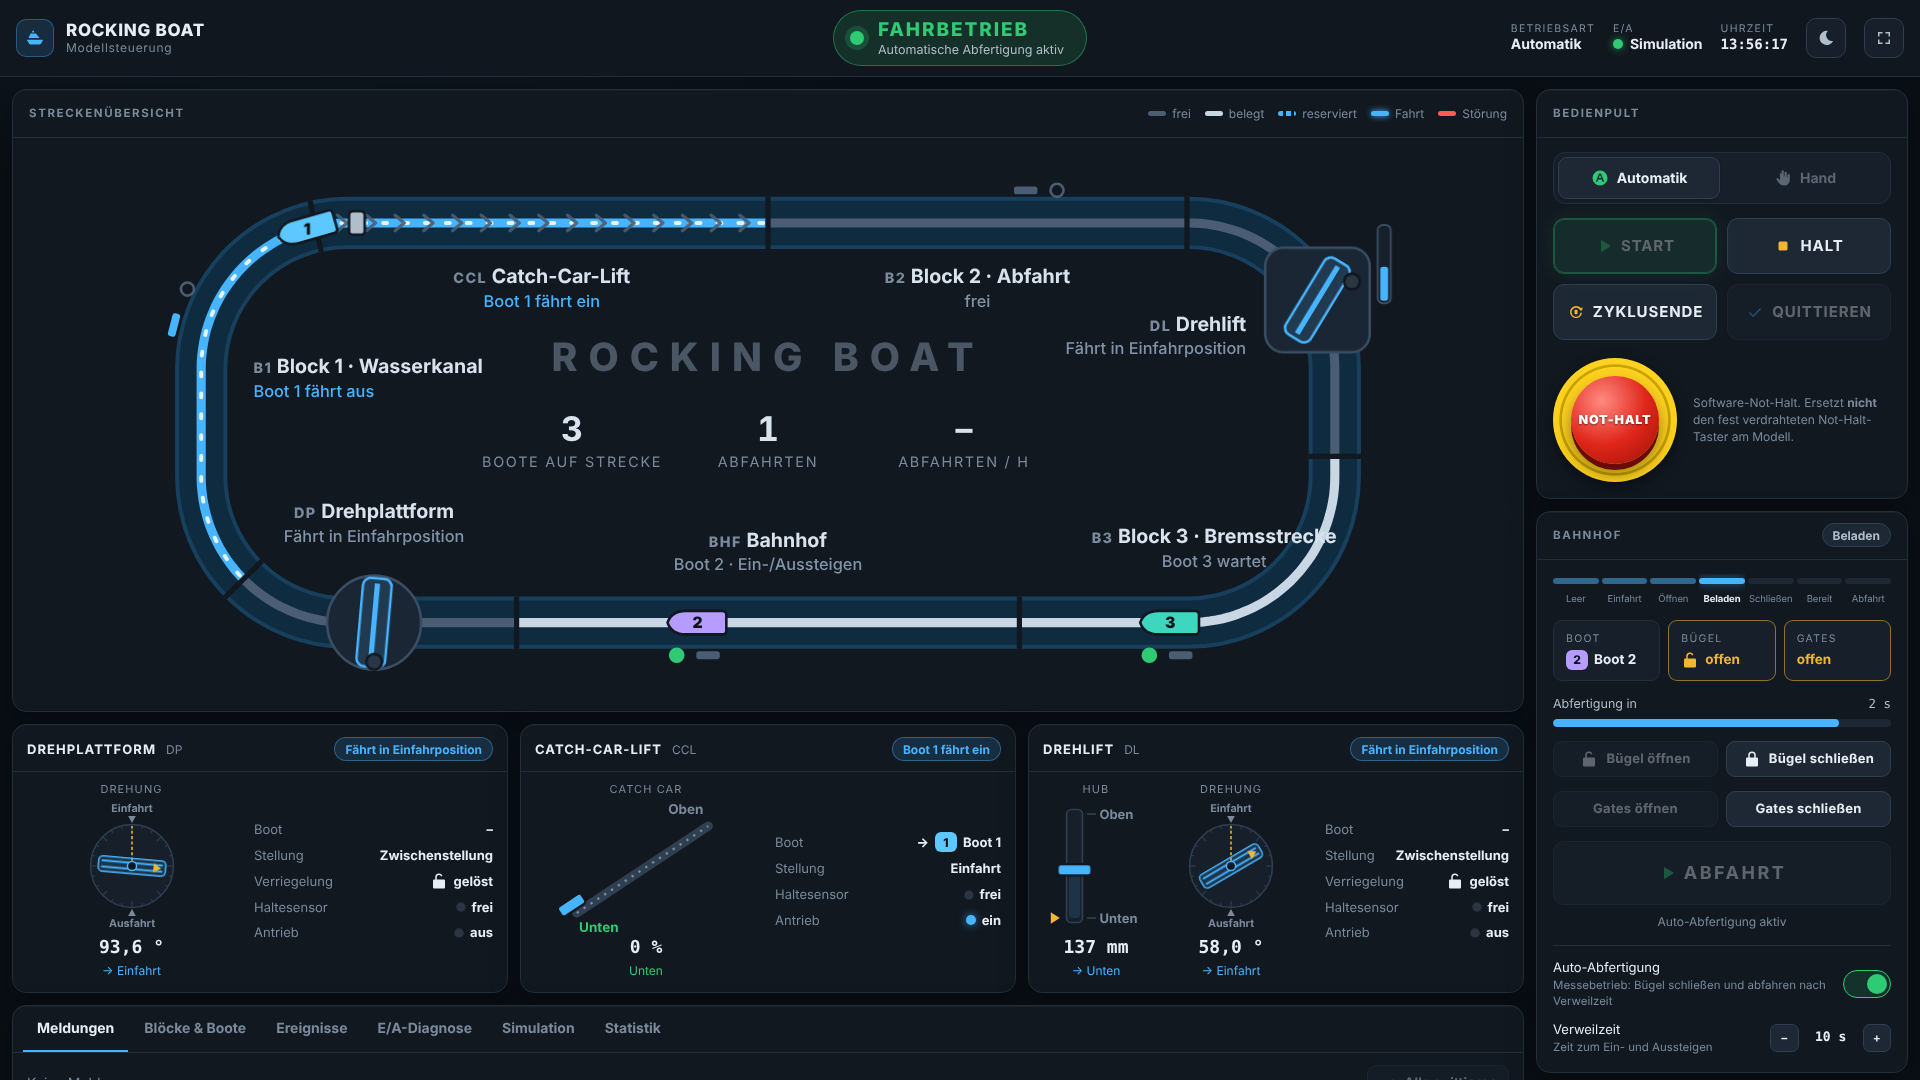
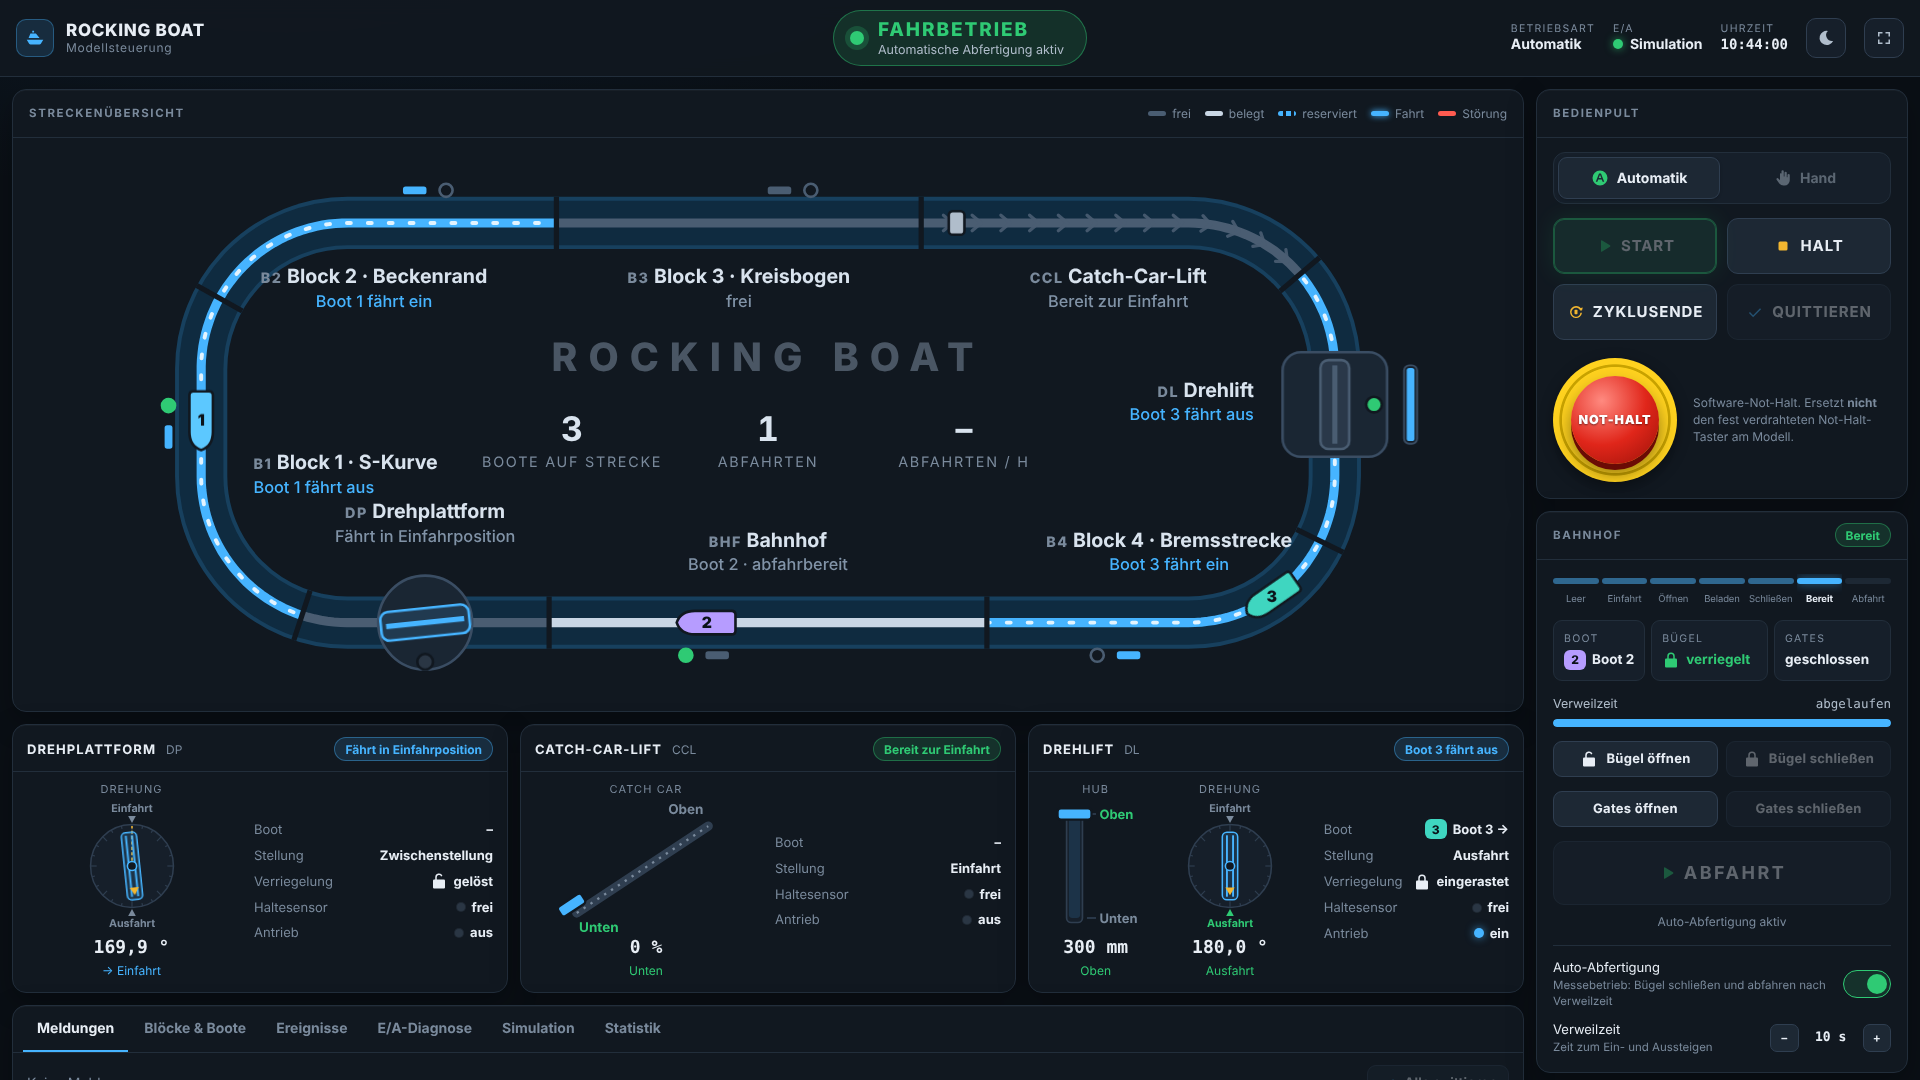
Streckenlayout aus dem Testvideo rekonstruieren
Das Testvideo (IMG_0518.MOV) zeigt eine Unterwasserschiene mit S-Kurve,
einen Bogen an der Beckenwand, einen aufgeständerten Kreisbogen und die
Drehplattform. Das Standardlayout übernimmt diese Abschnitte mit den im
Video gemessenen Fahrzeiten (S-Kurve 13 s, Beckenrand 11 s).

- Neue Abschnittsfolge: Bahnhof → Drehplattform → S-Kurve → Beckenrand →
  Kreisbogen → Catch-Car-Lift → Drehlift → Bremsstrecke
- docs/strecke-aus-video.md mit schematischer Draufsicht, Herkunft jedes
  Abschnitts (gesehen/angenommen) und offenen Fragen
- Signalliste neu erzeugt, Tests an die Abschnittsfolge angepasst
- Bahnhofspult: Kacheln schneiden „verriegelt“/„geschlossen“ nicht mehr ab

Claude-Session: https://claude.ai/code/session_014UVtXZWSkj7NbkCjKzpBEP

diff --git a/test/controller.test.js b/test/controller.test.js
@@ -14,16 +14,16 @@ const safeOutputs = (outputs) =>
 describe('Konfiguration', () => {
   test('Standardlayout ist gültig', () => {
     const config = normalizeConfig(rawConfig());
-    assert.equal(config.sections.length, 7);
+    assert.equal(config.sections.length, 8);
     assert.deepEqual(
       config.sections.map((s) => s.type),
-      ['station', 'turntable', 'block', 'catchCarLift', 'block', 'rotatingLift', 'block'],
+      ['station', 'turntable', 'block', 'block', 'block', 'catchCarLift', 'rotatingLift', 'block'],
     );
   });
 
   test('zu viele Boote werden abgelehnt', () => {
     const raw = rawConfig();
-    raw.boats = 7;
+    raw.boats = raw.sections.length;
     raw.simulation.initialBoats = raw.sections.map((s) => s.id);
     assert.throws(() => normalizeConfig(raw), (err) => err instanceof ConfigError && /Zu viele Boote/.test(err.message));
   });
@@ -44,8 +44,9 @@ describe('Automatikbetrieb', () => {
     rig.run(15 * 60, rig.assertNoDoubleOccupancy);
     assert.deepEqual(rig.alarmCodes(), []);
     assert.deepEqual(rig.sim.violations, []);
-    assert.ok(rig.ctrl.stats.dispatches >= 30, `nur ${rig.ctrl.stats.dispatches} Abfahrten`);
-    for (const b of rig.ctrl.boats.values()) assert.ok(b.rides >= 10, `${b.name} hat nur ${b.rides} Fahrten`);
+    // Mindestwerte mit Reserve unter dem Durchsatz des Standardlayouts (ca. 32 Abfahrten in 15 min)
+    assert.ok(rig.ctrl.stats.dispatches >= 25, `nur ${rig.ctrl.stats.dispatches} Abfahrten`);
+    for (const b of rig.ctrl.boats.values()) assert.ok(b.rides >= 8, `${b.name} hat nur ${b.rides} Fahrten`);
   });
 
   test('Abfahrt ohne Auto-Abfertigung nur mit geschlossenen Bügeln', () => {
@@ -184,8 +185,8 @@ describe('Handbetrieb', () => {
     const rig = createRig();
     assert.equal(rig.cmd('mode', { mode: 'manual' }).ok, true);
 
-    // Block 3 → Bahnhof: Bahnhof ist belegt
-    const blocked = rig.cmd('manual.advance', { section: 'block3' });
+    // Block 4 → Bahnhof: Bahnhof ist belegt
+    const blocked = rig.cmd('manual.advance', { section: 'block4' });
     assert.equal(blocked.ok, false);
     assert.match(blocked.message, /belegt/);
 
@@ -242,7 +243,7 @@ describe('Handbetrieb', () => {
   test('Fahrzeugverfolgung: Boot austragen und nach Neueinlesen wiederfinden', () => {
     const rig = createRig();
     rig.cmd('mode', { mode: 'manual' });
-    assert.equal(rig.cmd('tracking.remove', { section: 'block2' }).ok, false, 'Sensor meldet Boot – Austragen muss scheitern');
+    assert.equal(rig.cmd('tracking.remove', { section: 'block3' }).message, 'Sensor meldet ein Boot – Austragen nicht möglich');
     assert.equal(rig.cmd('tracking.rescan').ok, true);
     rig.tick();
     assert.equal(rig.ctrl.sections.filter((s) => s.boat).length, 3);

diff --git a/public/css/hmi.css b/public/css/hmi.css
@@ -498,8 +498,8 @@ body.mode-manual .manual-tools { display: flex; }
 .phases li.current { color: var(--text); font-weight: 750; }
 .phases li.current::before { background: var(--accent); box-shadow: 0 0 10px color-mix(in srgb, var(--accent) 50%, transparent); }
 
-.tiles { display: grid; grid-template-columns: repeat(3, minmax(0, 1fr)); gap: 8px; }
-.tile { display: flex; flex-direction: column; gap: 4px; min-width: 0; padding: 10px 12px; border-radius: var(--radius-sm); background: var(--panel-2); border: 1px solid var(--line); }
+.tiles { display: grid; grid-template-columns: auto minmax(0, 1fr) minmax(0, 1fr); gap: 6px; }
+.tile { display: flex; flex-direction: column; gap: 4px; min-width: 0; padding: 10px; border-radius: var(--radius-sm); background: var(--panel-2); border: 1px solid var(--line); }
 .tile-k { font-size: 10.5px; color: var(--muted); letter-spacing: 0.12em; text-transform: uppercase; }
 .tile-v { display: flex; align-items: center; gap: 6px; font-weight: 750; font-size: 13.5px; white-space: nowrap; overflow: hidden; text-overflow: ellipsis; }
 .tile[data-tone="warn"] { border-color: color-mix(in srgb, var(--warn) 55%, transparent); }

diff --git a/test/server.test.js b/test/server.test.js
@@ -29,7 +29,7 @@ describe('HTTP-Schnittstelle', () => {
     assert.equal(html.status, 200);
     assert.match(await html.text(), /<title>/);
     const cfg = await (await fetch(`${base}/api/config`)).json();
-    assert.equal(cfg.config.sections.length, 7);
+    assert.equal(cfg.config.sections.length, config.sections.length);
     assert.equal(cfg.driver, 'simulation');
     assert.ok(cfg.io.inputs.some((s) => s.key === 'drehplattform.lock.engaged'));
     const state = await (await fetch(`${base}/api/state`)).json();

diff --git a/docs/e-a-protokoll.md b/docs/e-a-protokoll.md
@@ -91,18 +91,19 @@ Erzeugt mit `npm run io-list`. Nach Änderungen am Layout neu erzeugen.
 | `drehplattform.drehung.pos` | number | Drehplattform: Drehung Istwert [°] |
 | `drehplattform.drehung.at` | string\|null | Drehplattform: Drehung erreichte Position (einfahrt \| ausfahrt) |
 | `drehplattform.lock.engaged` | bool | Drehplattform: Verriegelung eingerastet |
-| `block1.present` | bool | Block 1 · Wasserkanal: Boot in Halteposition |
+| `block1.present` | bool | Block 1 · S-Kurve: Boot in Halteposition |
+| `block2.present` | bool | Block 2 · Beckenrand: Boot in Halteposition |
+| `block3.present` | bool | Block 3 · Kreisbogen: Boot in Halteposition |
 | `catchcar.present` | bool | Catch-Car-Lift: Boot in Halteposition |
 | `catchcar.wagen.pos` | number | Catch-Car-Lift: Catch Car Istwert [%] |
 | `catchcar.wagen.at` | string\|null | Catch-Car-Lift: Catch Car erreichte Position (unten \| oben) |
-| `block2.present` | bool | Block 2 · Abfahrt: Boot in Halteposition |
 | `drehlift.present` | bool | Drehlift: Boot in Halteposition |
 | `drehlift.hub.pos` | number | Drehlift: Hub Istwert [mm] |
 | `drehlift.hub.at` | string\|null | Drehlift: Hub erreichte Position (unten \| oben) |
 | `drehlift.drehung.pos` | number | Drehlift: Drehung Istwert [°] |
 | `drehlift.drehung.at` | string\|null | Drehlift: Drehung erreichte Position (einfahrt \| ausfahrt) |
 | `drehlift.lock.engaged` | bool | Drehlift: Verriegelung eingerastet |
-| `block3.present` | bool | Block 3 · Bremsstrecke: Boot in Halteposition |
+| `block4.present` | bool | Block 4 · Bremsstrecke: Boot in Halteposition |
 
 ### Ausgänge (Steuerung → Hardware)
 
@@ -117,14 +118,16 @@ Erzeugt mit `npm run io-list`. Nach Änderungen am Layout neu erzeugen.
 | `drehplattform.drehung.cmd` | string\|null | Drehplattform: Drehung Zielposition (einfahrt \| ausfahrt), null = Halt |
 | `drehplattform.drehung.jog` | -1\|0\|1 | Drehplattform: Drehung Tippbetrieb |
 | `drehplattform.lock` | bool | Drehplattform: Verriegelung einlegen |
-| `block1.drive` | bool | Block 1 · Wasserkanal: Förderantrieb ein |
-| `block1.brakeOpen` | bool | Block 1 · Wasserkanal: Bremse lüften |
+| `block1.drive` | bool | Block 1 · S-Kurve: Förderantrieb ein |
+| `block1.brakeOpen` | bool | Block 1 · S-Kurve: Bremse lüften |
+| `block2.drive` | bool | Block 2 · Beckenrand: Förderantrieb ein |
+| `block2.brakeOpen` | bool | Block 2 · Beckenrand: Bremse lüften |
+| `block3.drive` | bool | Block 3 · Kreisbogen: Förderantrieb ein |
+| `block3.brakeOpen` | bool | Block 3 · Kreisbogen: Bremse lüften |
 | `catchcar.drive` | bool | Catch-Car-Lift: Förderantrieb ein |
 | `catchcar.brakeOpen` | bool | Catch-Car-Lift: Bremse lüften |
 | `catchcar.wagen.cmd` | string\|null | Catch-Car-Lift: Catch Car Zielposition (unten \| oben), null = Halt |
 | `catchcar.wagen.jog` | -1\|0\|1 | Catch-Car-Lift: Catch Car Tippbetrieb |
-| `block2.drive` | bool | Block 2 · Abfahrt: Förderantrieb ein |
-| `block2.brakeOpen` | bool | Block 2 · Abfahrt: Bremse lüften |
 | `drehlift.drive` | bool | Drehlift: Förderantrieb ein |
 | `drehlift.brakeOpen` | bool | Drehlift: Bremse lüften |
 | `drehlift.hub.cmd` | string\|null | Drehlift: Hub Zielposition (unten \| oben), null = Halt |
@@ -132,5 +135,5 @@ Erzeugt mit `npm run io-list`. Nach Änderungen am Layout neu erzeugen.
 | `drehlift.drehung.cmd` | string\|null | Drehlift: Drehung Zielposition (einfahrt \| ausfahrt), null = Halt |
 | `drehlift.drehung.jog` | -1\|0\|1 | Drehlift: Drehung Tippbetrieb |
 | `drehlift.lock` | bool | Drehlift: Verriegelung einlegen |
-| `block3.drive` | bool | Block 3 · Bremsstrecke: Förderantrieb ein |
-| `block3.brakeOpen` | bool | Block 3 · Bremsstrecke: Bremse lüften |
+| `block4.drive` | bool | Block 4 · Bremsstrecke: Förderantrieb ein |
+| `block4.brakeOpen` | bool | Block 4 · Bremsstrecke: Bremse lüften |

diff --git a/docs/strecke-aus-video.md b/docs/strecke-aus-video.md
@@ -1,0 +1,46 @@
+# Streckenrekonstruktion aus dem Testvideo
+
+Quelle: Video `IMG_0518.MOV` (25 s, 1280 × 720). Ein Boot fährt in einem Testbecken in der Werkstatt.
+Ausgewertet wurden zwei Einzelbilder pro Sekunde.
+
+![Rekonstruierte Teststrecke, schematisch](strecke-aus-video.svg)
+
+## Im Video gesehen
+
+| Element | Beobachtung |
+| --- | --- |
+| Schiene | Unterwasserschiene aus zwei blauen Rohren mit weißen Haltern auf dem Beckenboden. Das Boot schwimmt und folgt ihr. |
+| S-Kurve | Schlangenlinie mit zwei Gegenbögen. Das Boot braucht dafür rund **13 s** (0–13 s im Video). |
+| Bogen an der Beckenwand | Langer Bogen entlang der Seitenwand bis zur Rückwand, rund **11 s** (13–24,5 s). |
+| Kreisbogen auf Stützen | Großer Kreis auf weißen Stützen, hinten hoch aufgeständert, vorne auf Wasserhöhe. Im Video ohne Boot. |
+| Drehplattform | Runde Gitterscheibe mit geradem Gleisstück, innerhalb des Kreisbogens. Dreht sich im Video nicht. |
+| Boot | 1 Boot mit 12 Plätzen (6 Reihen à 2), fährt durchgehend mit dem Bug voraus und hält unterwegs nicht. |
+
+## Nicht im Video
+
+Bahnhof, Catch-Car-Lift, Drehlift, Blockgrenzen bzw. Haltesensoren und weitere Boote kommen nicht vor.
+Offen bleibt auch, wie S-Kurve, Kreisbogen und Drehplattform miteinander verbunden sind und in welche
+Richtung der Kreisbogen befahren wird.
+
+## Übernahme in `config/rocking-boat.json`
+
+| Abschnitt | Herkunft | Fahrzeit |
+| --- | --- | --- |
+| Bahnhof | Annahme | 4 s |
+| Drehplattform (180°) | gesehen, Drehwinkel angenommen | 3 s |
+| Block 1 · S-Kurve | gesehen | 13 s (gemessen) |
+| Block 2 · Beckenrand | gesehen | 11 s (gemessen) |
+| Block 3 · Kreisbogen | gesehen, Fahrtrichtung angenommen | 12 s (geschätzt) |
+| Catch-Car-Lift | Annahme | 3 s |
+| Drehlift | Annahme | 3 s |
+| Block 4 · Bremsstrecke | Annahme | 5 s |
+
+Mit 3 Booten ergibt das in der Simulation rund 126 Abfahrten pro Stunde, etwa alle 27 s eine.
+
+## Zu klären
+
+1. Liegt der Bahnhof vor der Drehplattform, und wie weit dreht sie (90° oder 180°)?
+2. Wird der Kreisbogen im oder gegen den Uhrzeigersinn befahren, und wo schließt er an S-Kurve und Drehplattform an?
+3. Wo sitzen Catch-Car-Lift und Drehlift, und ist der ansteigende Teil des Kreisbogens schon die Liftstrecke?
+4. Wo liegen die Haltepositionen bzw. Sensoren? Davon hängt ab, in wie viele Blöcke die lange Unterwasserstrecke zerfällt.
+5. Mit wie vielen Booten wird das Modell betrieben?

diff --git a/README.md b/README.md
@@ -135,9 +135,10 @@ aufgezählt, nach dem letzten folgt wieder der erste.
 | `timing.*` | Überwachungszeiten (Sensorentprellung, Zeitreserven, Totmann-Zeit) |
 | `simulation.initialBoats` | Startpositionen der Boote in der Simulation |
 
-> **Annahme:** Reihenfolge, Fahrzeiten, Drehwinkel und Hubwege des Standardlayouts sind Platzhalter
-> (Bahnhof → Drehplattform 180° → Wasserkanal → Catch-Car-Lift → Abfahrt → Drehlift 300 mm/180° → Bremsstrecke).
-> Sie müssen an das reale Modell angepasst werden. Die Oberfläche baut sich vollständig aus der Konfiguration auf.
+> **Stand des Standardlayouts:** S-Kurve, Bogen an der Beckenwand, Kreisbogen und Drehplattform stammen aus dem
+> Testvideo, siehe [Streckenrekonstruktion](docs/strecke-aus-video.md). Bahnhof, Catch-Car-Lift, Drehlift, Drehwinkel
+> und Hubwege sind noch Annahmen (Bahnhof → Drehplattform 180° → S-Kurve → Beckenrand → Kreisbogen → Catch-Car-Lift →
+> Drehlift 300 mm/180° → Bremsstrecke). Die Oberfläche baut sich vollständig aus der Konfiguration auf.
 
 ## Anbindung der Modell-Hardware
 
